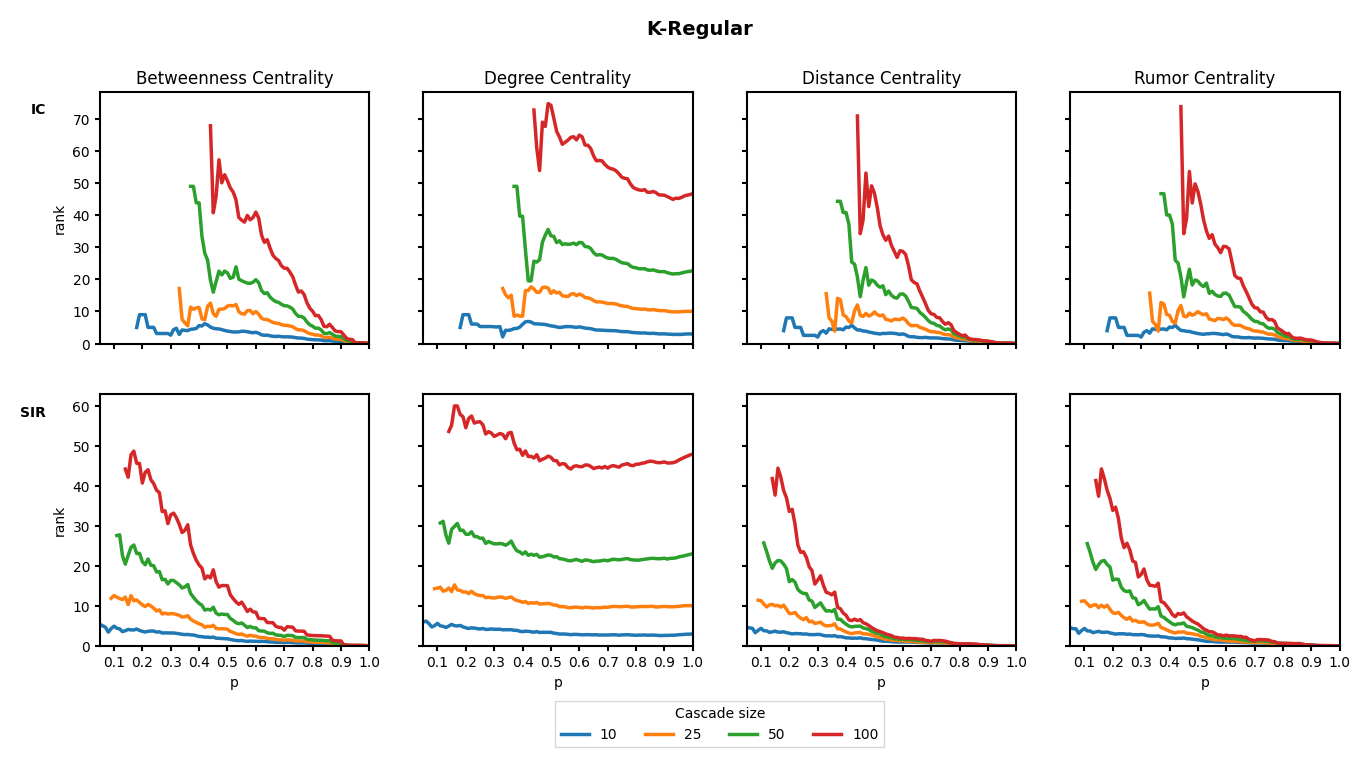
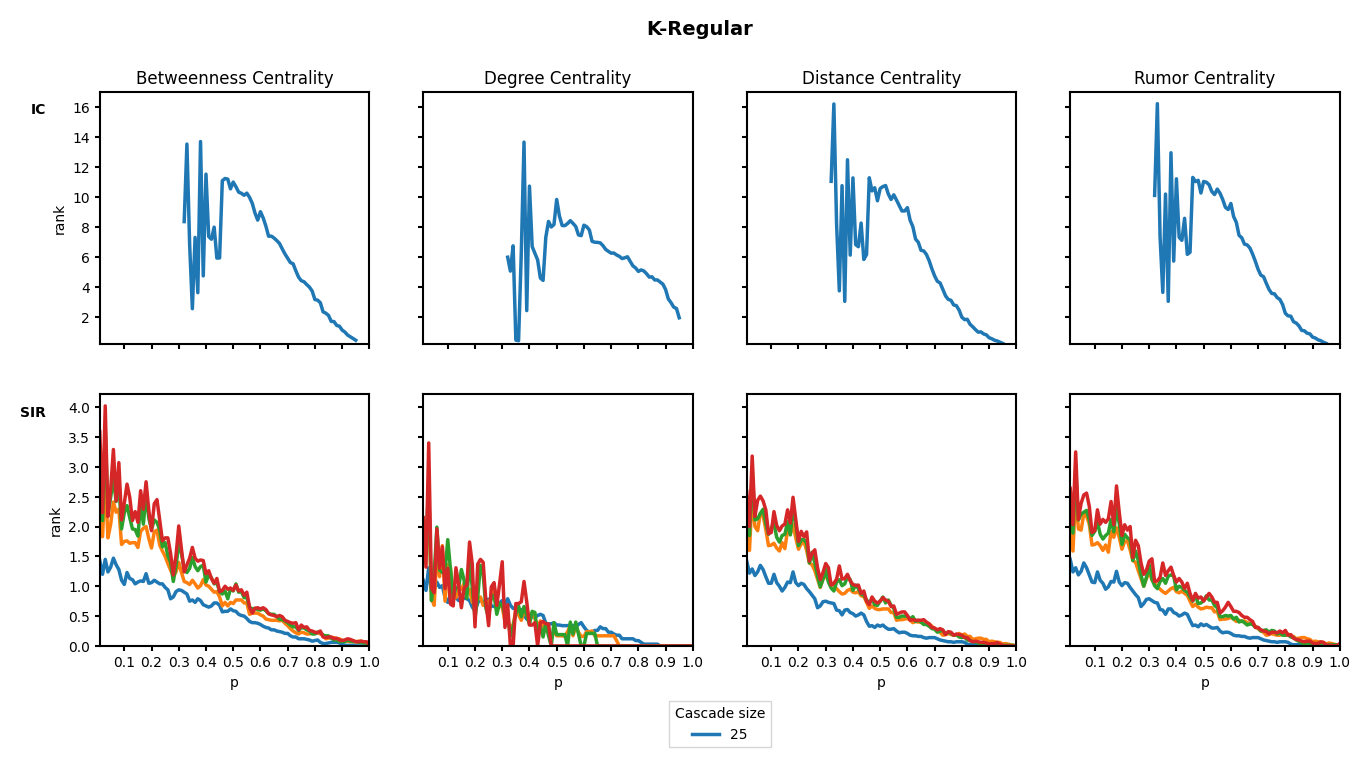
plot graphs

diff --git a/src/patient_zero/experiments/plots.py b/src/patient_zero/experiments/plots.py
@@ -2,6 +2,13 @@ from pathlib import Path
 import matplotlib.pyplot as plt
 import pandas as pd
 from patient_zero.experiments.utils import get_network_title, get_centrality_title
+from patient_zero.networks import create_balanced_tree_graph, create_k_regular_graph, create_random_graph, create_scale_free_graph, create_small_world_graph
+from patient_zero.networks.utils import get_random_node
+from patient_zero.models import ic, sir
+from patient_zero.experiments.centrality import rumor_centrality, distance_centrality, degree_centrality, betweenness_centrality
+from patient_zero.experiments.experiments import get_estimate_error
+from patient_zero.enums import ModelType, NetworkType, CentralityMeasure
+import networkx as nx
 
 DATA_DIR = Path(__file__).resolve().parent
 CSV_FILE = DATA_DIR / "results.csv"
@@ -82,9 +89,116 @@ def create_plot(name, index, grouped):
 
         fig.suptitle(get_network_title(graph_type), fontsize=14, weight="bold")
         plt.savefig(folder_path / graph_type, bbox_inches="tight", pad_inches=0.2) # save plots to png
+        plt.clf()
 
 
-def main():
+def create_graph_plot(G: nx.Graph, pos, cascade: nx.Graph, patient_zero: int, estimate: int, sp: list, filename, foldername):
+    node_colors = []
+    for node in G.nodes():
+        if node == patient_zero:
+            color = 'darkviolet' if node == estimate else 'red'
+        elif node == estimate:
+            color = 'blue'
+        elif node in sp:
+            color = 'black'
+        elif node in cascade.nodes():
+            color = 'gray'
+        else:
+            color = 'white'
+        node_colors.append(color)
+
+    # Draw graph
+    nx.draw(
+        G,
+        pos,
+        with_labels=False,
+        node_color=node_colors,
+        node_size=50,
+        edgecolors="black",
+        edge_color="silver",
+        linewidths=0.5
+    )
+
+    # Save figure
+    graphs_dir = Path(DATA_DIR / "graphs" / foldername.value)
+    graphs_dir.mkdir(parents=True, exist_ok=True)
+    plt.savefig(graphs_dir / filename)
+    plt.clf()
+
+
+def main(): 
+    graphs = {
+        NetworkType.BALANCED_TREE: {
+            "graph": create_balanced_tree_graph(3, 4),
+            "layout": lambda G: nx.kamada_kawai_layout(G)
+        },
+        
+        NetworkType.REGULAR: {
+            "graph": create_k_regular_graph(100, 3),
+            "layout": lambda G: nx.circular_layout(G)
+        },
+        
+        NetworkType.SMALL_WORLD: {
+            "graph": create_small_world_graph(100, 5, 0.2),
+            "layout": lambda G: nx.circular_layout(G)
+        },
+        
+        NetworkType.SCALE_FREE: {
+            "graph": create_scale_free_graph(100, 2),
+            "layout": lambda G: nx.spring_layout(G, seed=1)
+        },
+        
+        NetworkType.RANDOM: {
+            "graph": create_random_graph(100, 0.05),
+            "layout": lambda G: nx.spring_layout(G, seed=1)
+        }
+    }
+
+    cms = {
+        CentralityMeasure.RUMOR: lambda cascade: rumor_centrality(cascade),
+        CentralityMeasure.DISTANCE: lambda cascade: distance_centrality(cascade),
+        CentralityMeasure.BETWEENNESS: lambda cascade: betweenness_centrality(cascade),
+        CentralityMeasure.DEGREE: lambda cascade: degree_centrality(cascade)
+    }
+
+    models = {
+        ModelType.IC: lambda G, patient_zero, p_infect, cascade_size, seed: ic(G, patient_zero, p_infect, cascade_size, seed),
+        ModelType.SIR: lambda G, patient_zero, p_infect, cascade_size, seed: sir(G, patient_zero, p_infect, 0.2, cascade_size, seed)
+    }
+
+    for graph_type, gdata in graphs.items():
+        G = gdata["graph"]
+        pos = gdata["layout"](G)
+
+        # remove disconnected nodes
+        isolated_nodes = list(nx.isolates(G))
+        G.remove_nodes_from(isolated_nodes)
+
+        patient_zero = get_random_node(G)
+        p_infect = 0.5
+        cascade_size = 50
+        seed = 1
+
+        for model, model_func in models.items():
+            # generate cascade
+            nodes, edges = model_func(G, patient_zero, p_infect, cascade_size, seed)
+            cascade = nx.Graph()
+            cascade.add_nodes_from(nodes)
+            cascade.add_edges_from(edges)
+
+            # path lengths from patient zero
+            path_lengths = nx.single_source_shortest_path_length(cascade, patient_zero)
+
+            for cm, cm_func in cms.items():
+                # compute centrality scores and estimate
+                scores = cm_func(cascade)
+                estimate, _ = get_estimate_error(scores, path_lengths)
+                sp = nx.shortest_path(cascade, estimate, patient_zero)
+
+                # plot
+                filename = f"{graph_type.value}_{model.value}_{cm.value}"
+                create_graph_plot(G, pos, cascade, patient_zero, estimate, sp, filename, graph_type)
+
     # Estimate error plots
     name = "estimate_error"
     index = f"avg_{name}"
